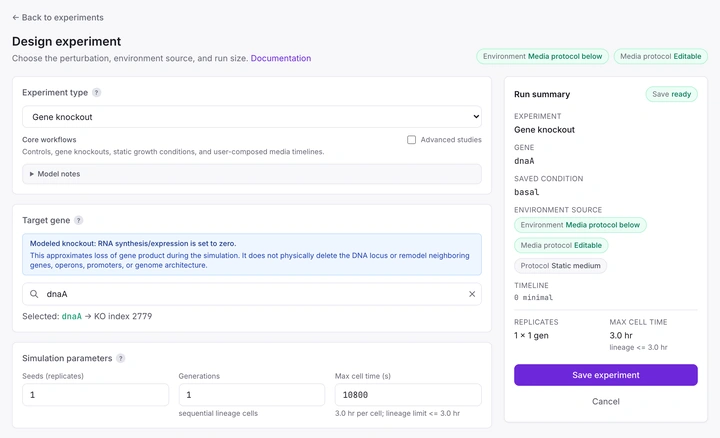
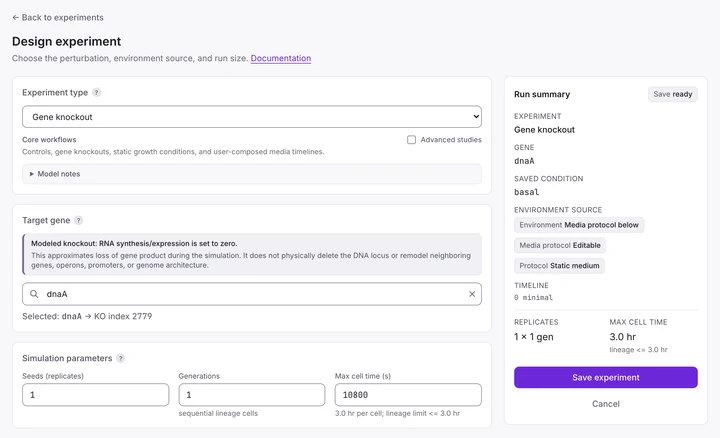
style: refresh local homepage previews and capture metadata

diff --git a/interface/frontend/src/components/home/HomePage.tsx b/interface/frontend/src/components/home/HomePage.tsx
@@ -3,6 +3,7 @@ import { Link } from 'react-router-dom'
 import { ThemeToggle } from '../theme/ThemeToggle'
 import { useTheme } from '../theme/ThemeProvider'
 import '../../styles/home.css'
+import previewDimensions from './previewDimensions.json'
 
 const steps = [
   {
@@ -78,7 +79,7 @@ function ProductPreview({
 }) {
   const { resolvedTheme } = useTheme()
   const mode = resolvedTheme === 'dark' ? '-dark' : ''
-  const height = { workspace: 960, experiment: 730, results: 835 }[name]
+  const { width, height } = previewDimensions[name]
   return (
     <img
       src={`/previews/${name}${mode}.webp`}
@@ -88,7 +89,7 @@ function ProductPreview({
           ? '(max-width: 380px) calc(100vw - 32px), (max-width: 1248px) calc(100vw - 48px), 1200px'
           : '(max-width: 380px) calc(100vw - 32px), (max-width: 800px) calc(100vw - 48px), (max-width: 1000px) calc((100vw - 80px) * 0.6364), (max-width: 1248px) calc((100vw - 112px) * 0.6364), 723px'
       }
-      width={1200}
+      width={width}
       height={height}
       alt={alt}
       loading={priority ? 'eager' : 'lazy'}

diff --git a/interface/frontend/e2e/tests/home.spec.ts b/interface/frontend/e2e/tests/home.spec.ts
@@ -140,7 +140,7 @@ for (const mode of ['light', 'dark'] as const) {
     // Each crop has its own aspect ratio; reserve the right space before it loads
     // and offer a sharp source for high-density screens.
     const previews = page.locator('main img')
-    for (const [index, height] of [960, 730, 835].entries()) {
+    for (const [index, height] of [960, 730, 1005].entries()) {
       const preview = previews.nth(index)
       await expect(preview).toHaveAttribute('width', '1200')
       await expect(preview).toHaveAttribute('height', String(height))

diff --git a/interface/frontend/scripts/export-previews.py b/interface/frontend/scripts/export-previews.py
@@ -1,0 +1,25 @@
+"""Export real UI captures and their layout dimensions; requires existing Pillow."""
+import json
+import sys
+from pathlib import Path
+from PIL import Image
+
+frontend = Path(__file__).resolve().parents[1]
+source = Path(sys.argv[1]) if len(sys.argv) > 1 else Path('/private/tmp/wcecoli-previews')
+output = frontend / 'public' / 'previews'
+manifest = json.loads((source / 'dimensions.json').read_text())
+metadata = {}
+for name in ['workspace', 'experiment', 'results']:
+    dimensions = manifest[name]
+    if dimensions != manifest[name + '-dark']:
+        raise ValueError(f'{name}: light and dark layout dimensions differ')
+    metadata[name] = dimensions
+    for suffix in ['', '-dark']:
+        image = Image.open(source / f'{name}{suffix}.png').convert('RGB')
+        for width, variant, quality in [(720, '-720', 88), (1440, '', 92), (2400, '-2400', 92)]:
+            height = round(image.height * width / image.width)
+            image.resize((width, height), Image.Resampling.LANCZOS).save(
+                output / f'{name}{suffix}{variant}.webp', 'WEBP', quality=quality, method=6)
+(frontend / 'src' / 'components' / 'home' / 'previewDimensions.json').write_text(
+    json.dumps(metadata, indent=2) + '\n')
+print('Exported 18 WebP previews and their intrinsic dimensions')

diff --git a/interface/frontend/docs/frontend-refresh.md b/interface/frontend/docs/frontend-refresh.md
@@ -16,15 +16,16 @@ The refresh adds an introduction at `/`, preserves the working workspace at `/ex
 
 ## Product previews
 
-`public/previews/` contains light/dark WebP captures of real local platform pages (1440×960), plus 720×480 variants. The results are example model output, not experimental measurements. They were captured on 2026-10-03 without saving configurations or queuing simulations.
+`public/previews/` contains updated light/dark WebP captures of real local workspace, designer, and Results browser pages at 720/1440/2400px widths. Each crop retains its own aspect ratio; generated `previewDimensions.json` reserves matching layout space. The results are example model output, not experimental measurements. The captures were refreshed on 2026-10-06 without saving configurations or queuing simulations.
 
 To reproduce with the frontend and local API running:
 
 ```sh
 node scripts/capture-previews.mjs
+python scripts/export-previews.py
 ```
 
-The default output is `/private/tmp/wcecoli-previews`. Optimize those PNGs with Pillow to RGB WebP: quality 90/method 6 at native size; quality 86/method 6 for 720×480. Place the resulting images in `public/previews/` with the same filenames. Do not commit raw PNGs. Review the results preview before refreshing it because it reflects the local session's data.
+Raw captures default to `/private/tmp/wcecoli-previews`. The exporter uses existing Pillow to create RGB WebP variants and matching layout metadata. The designer crop includes its full Run summary; the Results crop ends after three complete cards. Review the actual local records before exporting them. Raw PNGs remain outside the repository.
 
 ## Verification
 
@@ -32,3 +33,5 @@ The default output is `/private/tmp/wcecoli-previews`. Optimize those PNGs with 
 - Browser regression: `npm run e2e -- home.spec.ts theme.spec.ts smoke.spec.ts a11y.spec.ts --workers=3`.
 - Preview: `http://localhost:5173/`; working workspace: `/explore`.
 - Legacy root workspace query keys redirect with search/hash intact; normal introduction tracking parameters do not redirect.
+
+Preview refresh verification (2026-10-06): production build and whitespace checks passed; all 66 homepage/theme/accessibility checks passed in Chromium and WebKit. All 18 exported variants match their reserved dimensions and aspect ratios. Light/dark captures were visually reviewed, including a live homepage check. Capture rejects Vite error overlays; no configurations were saved and no simulations were launched.
